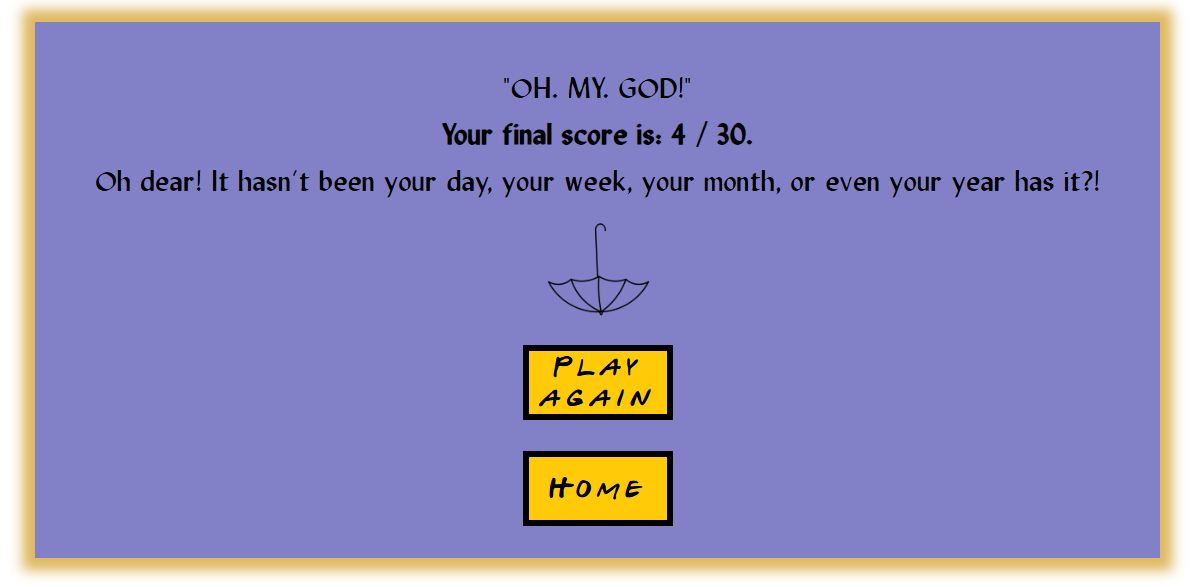
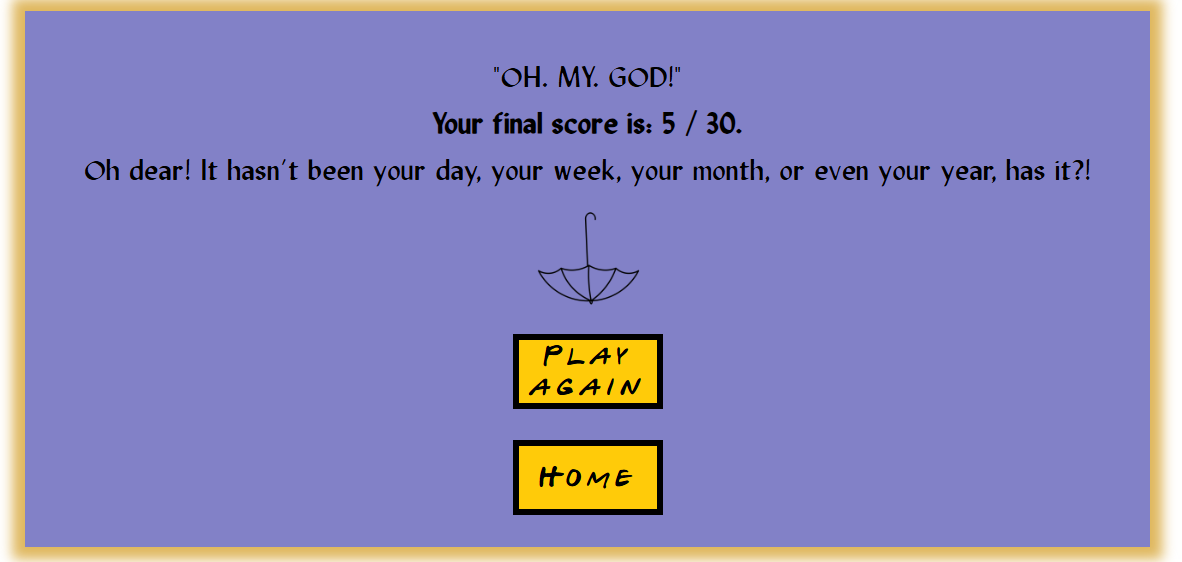
Fix minor typos in Readme and Testing files identified by proof-reading

Changed region(s): [[0.0, 0.0, 1.0, 1.0], [0.4264, 0.5747, 0.5787, 0.726], [0.4569, 0.363, 0.5482, 0.5445]]

diff --git a/assets/js/script.js b/assets/js/script.js
@@ -22,7 +22,7 @@ const questions = [
   },
 
   {
-    question: "Which friend had jobs at Central Perk, Bloomingdales and Ralph Lauren?",
+    question: "Which friend had jobs at Central Perk, Bloomingdale's and Ralph Lauren?",
     possibleAnswers: ['Monica', 'Chandler', 'Phoebe', 'Rachel'],
     correctAnswer: 'Rachel',
 
@@ -43,7 +43,7 @@ const questions = [
   },
 
   {
-    question: 'Whose name does Ross mistakenly say at the alter?',
+    question: 'Whose name does Ross mistakenly say at the altar?',
     possibleAnswers: ['Rachel', 'Emily', 'Julie', 'Mona'],
     correctAnswer: 'Rachel',
 
@@ -93,7 +93,7 @@ const questions = [
   },
 
   {
-    question: "Frank Jr  and Alice’s triplets are named Frank Jr Jr, Chandler and ...? ",
+    question: "Frank Jr and Alice’s triplets are named Frank Jr Jr, Chandler and ...? ",
     possibleAnswers: ['Lesley', 'Sophia', 'Jennifer', 'Hannah'],
     correctAnswer: 'Lesley',
 
@@ -121,7 +121,7 @@ const questions = [
   },
 
   {
-    question: "How may pages long (front and back!) was Rachel’s letter to Ross?",
+    question: "How many pages long (front and back!) was Rachel’s letter to Ross?",
     possibleAnswers: ['5', '18', '7', '12'],
     correctAnswer: '18',
   },
@@ -157,7 +157,7 @@ const questions = [
   },
 
   {
-    question: "When Phoebe becomes Princess Consuela, what does she says her friends can call her?",
+    question: "When Phoebe becomes Princess Consuela, what does she say her friends can call her?",
     possibleAnswers: ['Dorothy', 'June', 'Valerie', 'Marjorie'],
     correctAnswer: 'Valerie',
   },
@@ -330,6 +330,8 @@ document.addEventListener('DOMContentLoaded', function () {
           currentQuestionIndex++;
           if (currentQuestionIndex < questions.length) {
             handleQuestion(currentQuestionIndex);
+            answers.forEach(button => {
+            });
           } else {
             endQuiz();
           }
@@ -422,7 +424,7 @@ document.addEventListener('DOMContentLoaded', function () {
     /* Custom messages to user depending on their score */
     if (finalScore >= 0 && finalScore <= 7) {
       finalScoreElement.innerHTML = `<p>"OH. MY. GOD!"<br> <strong>Your final score is: ${finalScore} / 30.</strong> <br> Oh dear! It hasn't been your day, your week, your
-      month, or even your year has it?!</p>` +
+      month, or even your year, has it?!</p>` +
         `<img src="assets/images/umbrella.png" alt="Umbrella image" style="width:120px;">` +
         `<button onclick="location.href='trivia.html'">Play again</button>` +
         `<button onclick="location.href='index.html'">Home</button>`;
@@ -437,12 +439,12 @@ document.addEventListener('DOMContentLoaded', function () {
         `<button onclick="location.href='trivia.html'">Play again</button>` +
         `<button onclick="location.href='index.html'">Home</button>`;
     } else if (finalScore >= 24 && finalScore <= 29) {
-      finalScoreElement.innerHTML = `<p>"OH. MY. GOD!" <br> <strong>Your final score is: ${finalScore} / 30.</strong> <br> “Congratulations Ross, because Chandler, you’ve been bamboozled!” <br> "This is the best game ever!” </p>` +
+      finalScoreElement.innerHTML = `<p>"OH. MY. GOD!" <br> <strong>Your final score is: ${finalScore} / 30.</strong> <br> “Congratulations, Ross! Because Chandler, you’ve been bamboozled!” <br> "This is the best game ever!” </p>` +
         `<img src="assets/images/magna-doodle.png" alt="Magna Doodle image" style="width:120px;">` +
         `<button onclick="location.href='trivia.html'">Play again</button>` +
         `<button onclick="location.href='index.html'">Home</button>`;
     } else if (finalScore === 30) {
-      finalScoreElement.innerHTML = `<p>"OH. MY. GOD!" <br> <strong>Your final score is: ${finalScore} / 30.</strong> <br> YOU GOT EVERY ANSWER CORRECT! <br> Okay, you watch too much TV! <br> But could you BE a bigger Friends fan?!</p>` +
+      finalScoreElement.innerHTML = `<p>"OH. MY. GOD!" <br> <strong>Your final score is: ${finalScore} / 30.</strong> <br> YOU GOT EVERY ANSWER CORRECT! <br> Okay, you watch too much TV! <br> But could you <i>BE</i> a bigger Friends fan?!</p>` +
         `<img src="assets/images/central-perk.png" alt="Central Perk image" style="width:120px;">` +
         `<button onclick="location.href='trivia.html'">Play again</button>` +
         `<button onclick="location.href='index.html'">Home</button>`;

diff --git a/help.html b/help.html
@@ -59,7 +59,7 @@
         <P>Monica just can't believe that Joey thinks he and Chandler know her and Rachel better than the other way
             around.</p>
         <br>
-        <p>But how well do you know the iconic TV show 'Friends'?</p>
+        <p>But how well do <i><strong>you</strong></i> know the iconic TV show <i>'Friends'?</i></p>
         <br>
         <p>Ross has made up some questions for you (it's not like he has a job, or a child, or a life of his own!).</p>
         <br>
@@ -67,7 +67,7 @@
         <br>
         <p>Challenge accepted?</p>
         <br>
-        <p class="modal-border">Hit 'PLAY' to begin <br> or select 'HELP' <br> if you need instructions.</p>
+        <p class="modal-border">Hit 'PLAY' to begin, <br> or select 'HELP' <br> if you need instructions.</p>
         <br>
         <div class="option-btns-div">
             <a href="trivia.html">
@@ -126,18 +126,18 @@
                     are on.</li>
                 <li>Each time a new question is started, the corresponding progress bar will change from grey to yellow.
                 </li>
-                <li>You will only have 30 seconds to read each question and select the answer you think is correct – so
+                <li>You will only have 30 seconds to read each question and select your answer – so
                     be quick!</li>
                 <li>The timer underneath the progress bar will count down your remaining time. </li>
-                <li>Once you have answered the question, your selection will either turn green if you are correct, or
-                    red if you are incorrect.</li>
-                <li>If you answered incorrectly, the correct answer will be highlighted in green for you.</li>
+                <li>Once you have answered, your selection will turn green if correct, or
+                    red if incorrect.</li>
+                <li>If you're incorrect, the correct answer will be highlighted in green for you.</li>
                 <li>If you do not answer before the timer hits zero, this will be counted as an incorrect answer and the
-                    quiz will move on to the next question.</li>
+                    quiz will move to the next question.</li>
                 <li>Answer all the questions and receive your score at the end of the game.</li>
                 <li>Or follow the score count below the question box to keep track of your score as you progress through
                     the game.</li>
-                <li>Use the 'MENU' at the top of the screen at any time to access a reminder of these instructions, or
+                <li>Use the 'MENU' at the top of the screen at any time to review these instructions, or
                     to start a new game.</li>
             </ul>
             <div class="option-btns-div">

diff --git a/index.html b/index.html
@@ -59,7 +59,7 @@
         <P>Monica just can't believe that Joey thinks he and Chandler know her and Rachel better than the other way
             around.</p>
         <br>
-        <p>But how well do you know the iconic TV show 'Friends'?</p>
+        <p>But how well do <i><strong>you</strong></i> know the iconic TV show <i>'Friends'?</i></p>
         <br>
         <p>Ross has made up some questions for you (it's not like he has a job, or a child, or a life of his own!).</p>
         <br>
@@ -67,7 +67,7 @@
         <br>
         <p>Challenge accepted?</p>
         <br>
-        <p class="modal-border">Hit 'PLAY' to begin <br> or select 'HELP' <br> if you need instructions.</p>
+        <p class="modal-border">Hit 'PLAY' to begin, <br> or select 'HELP' <br> if you need instructions.</p>
         <br>
         <div class="option-btns-div">
             <a href="trivia.html">

diff --git a/trivia.html b/trivia.html
@@ -58,7 +58,7 @@
         <P>Monica just can't believe that Joey thinks he and Chandler know her and Rachel better than the other way
             around.</p>
         <br>
-        <p>But how well do you know the iconic TV show 'Friends'?</p>
+        <p>But how well do <i><strong>you</strong></i> know the iconic TV show <i>'Friends'?</i></p>
         <br>
         <p>Ross has made up some questions for you (it's not like he has a job, or a child, or a life of his own!).</p>
         <br>
@@ -66,7 +66,7 @@
         <br>
         <p>Challenge accepted?</p>
         <br>
-        <p class="modal-border">Hit 'PLAY' to begin <br> or select 'HELP' <br> if you need instructions.</p>
+        <p class="modal-border">Hit 'PLAY' to begin, <br> or select 'HELP' <br> if you need instructions.</p>
         <br>
         <div class="option-btns-div">
             <a href="trivia.html">

diff --git a/assets/css/style.css b/assets/css/style.css
@@ -691,7 +691,7 @@ footer {
 
 /*targets the social media icons so their colours will change when they are hovered over. 
     To get this to work, had to target i element not a element as originally thought*/
-i:hover {
+#social-links i:hover {
     color: var(--hover);
 
 }

diff --git a/docs/README.md b/docs/README.md
@@ -1,4 +1,4 @@
-# The one with all the questions - 'Friends' interactive trivia website
+# The One With All The Questions - 'Friends' interactive trivia website
 # Milestone Project 2 - Interactive Front End Development
 
 <h2><img src="../assets/readme-images/homepage-mockup.png" alt="Homepage mockup"></h2>
@@ -97,14 +97,14 @@
   * Facility to see my current score throughout the game (user story 7). 
 
   ### Could Have Features
-  * A message along with my final score, which is different according to what score I achieve (user story 8). 
+  * A Friends related message along with my final score, which is different according to what score I achieve (user story 8). 
   * A time limit on each question, to add a small amount of pressure, and make the game more challenging and exciting (user story 9). 
   * The questions and possible answers appear in a random order each time I play to increase replay-ability (user story 10). 
   * Ability to filter questions by difficulty level (user story 11). 
 
 
 ## User Expectations and Requirements
-* All user story 1 (must-have)
+* All user story 1 (must-have).
 * To find the website easy to access and navigate on any screen size. 
 * For the site to be fully accessible. 
 * For the site to be engaging and visually appealing, including high quality images which are related to Friends. 
@@ -136,7 +136,7 @@ I was able to successfully implement all of the initial stage features.
 * The 'active' link i.e. the page the user is on, is underlined as a visual reminder. 
 * The links on the nav bar appear as a horizontal list on larger screens and in a drop down menu on smaller screens. 
 <h2><img src="../assets/readme-images/navbar-mobile.png" alt="Nav bar on mobile and tablet"></h2>Nav bar (Mobile and Tablet)
-<h2><img src="../assets/readme-images/nav-bar-desktop.png"alt="Nav bar on desktop"></h2>Nav bar (desktop)
+<h2><img src="../assets/readme-images/nav-bar-desktop.png"alt="Nav bar on desktop"></h2>Nav bar (Desktop)
 
  
 ### Footer
@@ -214,7 +214,7 @@ I was able to successfully implement all of the initial stage features.
  * If the user does not answer the question before the timer hits zero, the user will see a pop message telling them “Time’s up!” 
 <h2><img src="../assets/readme-images/times-up-message.png" alt="Time's up message"></h2>Time's up message
 
-* The user is not shown the correct answer if they do not make an attempt to answer the question before the timer runs out. 
+* The user is not shown the correct answer if they do not make an attempt to answer the question before the timer runs out. This is done to encourage the user to engage with the game properly. 
 * The game will then auto-advance to the next question so the user will not get another chance to answer.  
 * That question will also be treated as having been answered incorrectly, and the users incorrect score tally will increment by 1 mark.  
 
@@ -267,7 +267,7 @@ Due to time constraints, I have not been able to implement the ability to filter
 Some additional features that I would like to implement in the future are: 
 
 * To increase replay-ability of the quiz, I would like to increase the pool of available questions and display only a proportion of these during each game. This would mean that the user could play the game many times over and be asked questions they have not seen before, on each playthrough. 
-* To supplement the quiz and add more value for the user, I would like implement a quote generator. This would have options to select a Friends character and view a selection of randomised quotes from them, as well as options to select an episode and receive randomised quotes from that episode.  
+* To supplement the quiz and add more value for the user, I would like to implement a quote generator. This would have options to select a Friends character and view a selection of randomised quotes from them, as well as options to select an episode and receive randomised quotes from that episode.  
 * I would also like to add an episode selector feature. The user would be able to select a category (such as birthdays, weddings, Christmas etc) and receive a list of episodes which meet this criteria. The user would also be able to select a mood from a pre-defined list (e.g. I want to cry, I want to feel motivated etc) and receive a list of recommended episodes based on that mood. 
 * I have also written all the content for a 6-question ‘which character are you most like' quiz that I would like to add to the site at a later stage.  
 
@@ -359,7 +359,7 @@ Aspect ratios chosen for use in the site were:
 * 3:2 (logo)
 * 5:4 (other images) 
 
-16:9 - this aspect ratio was chosen for hero images as these images are designed to span the whole width of the page on all screen sizes and therefore, need to be wide. 16:9 is a very versatile aspect ratio used by lots of modern media formats and provides an immersive viewing experience.
+16:9 - this aspect ratio was chosen for the hero image, as these images are designed to span the whole width of the page on all screen sizes and therefore, need to be wide. 16:9 is a very versatile aspect ratio used by lots of modern media formats and provides an immersive viewing experience.
 
 3:2 - this aspect ratio was chosen as it suits images which are in landscape orientation in their original state, because it makes the images wider than they are tall. 3:2 suits such images especially well as the result is images that are:  
 * visually pleasing;
@@ -369,7 +369,7 @@ Aspect ratios chosen for use in the site were:
 5:4 – this aspect ratio was chosen as it gives a good balance between height and width, which makes it a good match for images intended to be viewed on a screen. 
 
 ###  Image animation
-All images used on the site (except the hero image) subtly rotate in some way when hovered over, to add visual interest and interactivity. 
+All images used on the site (except the hero image) subtly grow or rotate when hovered over, to add visual interest and interactivity. 
 
 
 ## Logo
@@ -418,7 +418,7 @@ All images used on the site (except the hero image) subtly rotate in some way wh
 
   ### Images
   * [Pexels](https://www.pexels.com/) - was used to source the [Central Perk background image](https://www.pexels.com/photo/festive-central-perk-cafe-window-display-30500272/) used in the homepage of the site.
-  * [Printerval](https://printerval.com/us) was used to source:-
+  * [Printerval](https://printerval.com/us) was used to source :-
     * the image of the [peephole frame](https://printerval.com/peephole-frame-friends-sticker-sticker756055-peephole-frame-p797344) from the back of Monica Gellar's front door which was used as the site's logo.
     * the image of the [Princess Consuela name tag](https://printerval.com/friends-hello-my-name-is-princess-consuela-banana-hammock-friends-phone-case-phone-case7364869-friends-hello-my-name-is-princess-consuela-banana-p756448?__cf_chl_tk=Ma0.9LKPzAZUXU9W6IA4YQw14XXY3K4cd7w57Q2TT4k-1746235802-1.0.1.1-M...) which was used as the image on the introduction modal. 
     * Both images were found via a Google image search with results set to 'Creative Commons licenses'.
@@ -478,7 +478,7 @@ This site was deployed to GitHub pages. The steps to deploy a site are as follow
 
 # Credits
 ## Content
-* All copy, questions and answers on the site were written by me. I referred to the relevant episodes of Friends to verify all answers and information given to ensure everything is correct.
+* All copy, questions and answers on the site were written by me. I referred to the relevant episodes of Friends to verify all answers given, and all quotes and references used, to ensure everything is correct.
 * [Warner Bros](https://www.warnerbros.co.uk/tv/friends) - for the site colour scheme and the Friends quotes and references which appear throughout the site.
 * The following GitHub repositories for inspiration for creating a themed quiz using closable modals :-
      * [Diane-4P 'Harry Potter quiz'](https://github.com/Diane-4P/harry-potter-quiz?tab=readme-ov-file)  
@@ -522,7 +522,7 @@ Whilst the project in its current form is the minimum viable product, I have man
 
 Whilst this project is not perfect, overall I am proud of all the perseverance, late nights and dedication I put in to take this project from idea to reality. 
 
-By completing this MVP, I have proven to myself that I can persist at challenging tasks, even though getting to this stage has felt impossible at times.  
+By completing this MVP, I have proven to myself that I have the focus, ability and tenacity to persist at challenging tasks - even though getting to this stage has felt impossible at times.  
 
 I hope other fans of Friends will find as much joy in this project as I have.  
 

diff --git a/docs/TESTING.md b/docs/TESTING.md
@@ -123,7 +123,7 @@ The one with all the questions - 'Friends' interactive trivia website returned n
 All user expectations and requirements (user story 1: user friendly navigation and responsive design) have been satisfied.
 * The site is fully responsive on screen sizes from 320px and upwards. 
 * The site is fully accessible, it contains appropriate alt text, a colour scheme of sufficient contrast, and has passed WAVE accessibility testing. 
-* All images used in the site have been optimised and cropped to suitable aspect ratio. 
+* All images used in the site have been optimised and cropped to suitable aspect ratios. 
 * There is a responsive nav bar and footer on all pages. 
 * All navigation links have been tested and proven to work. 
 * All navigation buttons have been tested and proven to work.  
@@ -168,7 +168,7 @@ User story 7: facility to see my current score throughout the game.
 * Both the correct and incorrect score are tallied correctly (incrementing each category by one mark as appropriate) and at the correct time (as soon as the user has answered and their answered has been ‘marked’). 
 
  ### Could Have
- User story 8: a message along with my final score, which is different according to what score I achieve. 
+ User story 8: a Friends related message along with my final score, which is different according to what score I achieve. 
  * Testing of the game achieving different scores each time, has verified that a different Friends related message is displayed according to the user’s final score as expected. 
  * It has been proven that there are 5 different messages available, 1 for each of these score brackets: 0-7, 8-15, 16-23, 24-29, 30 and that the correct message appears for the relevant score bracket. 
 
@@ -190,33 +190,16 @@ User story 11: ability to filter questions by difficulty level.
 # Peer Review
 * In the final stages of the project development, I submitted the project for review by fellow Code Institute students and alumni on slack. 
 * I received feedback that the quiz was functioning well with no errors found.  
-* It was suggested that to improve the user experience, I could ass functionality for the user to exit or restart the game whilst it is in progress. Whilst these would be useful features, I decided not to implement them as I felt it was too late in the project, due to the proximity of the submission deadline. However, this is something I will remember for future projects. 
+* It was suggested that to improve the user experience, I could add functionality for the user to exit or restart the game whilst it is in progress. Whilst these would be useful features, I decided not to implement them as I felt it was too late in the project, due to the proximity of the submission deadline. However, this is something I will remember for future projects. 
 
 * The site was proof-read by me. In addition to this, I also used ChatGPT and the ‘read aloud’ feature of Microsoft Word for further proof-reading. Any minor typographical or grammatical errors found were subsequently corrected. 
 
-* I asked a number of friends and family members to test the site for typos, to check the quiz works correctly, and that the external links to social media sites in the footer all open in new tabs. No errors were reported. Feedback from a particularly avid Friends fan was that they especially liked all the details that had been added to keep the whole site in keeping with the Friends themes.
+* I asked a number of friends and family members to test the site for typos, to check the quiz works correctly, and that the external links to social media sites in the footer all open in new tabs. No errors were reported. Feedback from a particularly avid Friends fan was that they especially liked all the details that had been added to keep the whole site in keeping with the Friends theme.
        
 # Bugs 
 ## Resolved
 
-* There was originally a contrast error on the Play Page caused by the blue and yellow coloured dots in the site title, which was subsequently resolved. The issue was that the original blue and yellow colours are too light against a white background. To solve this issue, slightly darker variants of these colours were used on the Play Page instead. The Play Page subsequently passed Wave Accessibility testing with no issues. 
-        <details>
-          <summary>Original blue contrast error</summary>
-          <img src="../assets/readme-images/blue-contrast-error.png" alt="Original blue contrast error"> 
-         </details>
-        <details>
-          <summary>Original yellow contrast error</summary>
-          <img src="../assets/readme-images/yellow-contrast-error.png" alt="Original yellow contrast error"> 
-         </details>
-        <details>
-          <summary>New blue no contrast error</summary>
-          <img src="../assets/readme-images/blue-contrast.png" alt="New blue no contrast error"> 
-         </details>
-        <details>
-          <summary>New yellow no contrast error</summary>
-          <img src="../assets/readme-images/yellow-contrast.png" alt="New yellow no contrast error"> 
-         </details>
-
+* There was originally a contrast error on the Play Page caused by the blue and yellow coloured dots in the site title, which was subsequently resolved. The issue was that the original blue and yellow colours are too light against a white background. To solve this issue, slightly darker variants of these colours were used on the Play Page instead. The Play Page subsequently passed Wave Accessibility testing with no issues.
 
 * On first run of the W3C HTML Validator, the error shown below was flagged on all pages of the site. This was resolved by replacing the p element with a span element. All pages of the site subsequently passed validation. 
         <details>
@@ -229,7 +212,7 @@ User story 11: ability to filter questions by difficulty level.
 
 ## Unresolved
 
-* Lighthouse recommends rectifying the largeste contentful paint and serving images in next-gen formats to improve mobile performance on lower scoring pages. This recommendation was not acted upon at this time as current performance is still acceptable, especially for an MVP, but this could be looked into in the future, especially if the site expands with additional content.
+* Lighthouse recommends rectifying the largest contentful paint and serving images in next-gen formats to improve mobile performance on lower scoring pages. This recommendation was not acted upon at this time as current performance is still acceptable, especially for an MVP, but this could be looked into in the future, especially if the site expands with additional content.
 
 * When testing the game on Sarfari on my 9th generation iPad and on Samsung Internet on my Samsung Galaxy S22, I noticed that the text in the answer boxes appears to the left of the box rather than in the centre. This happens despite the text being set to align centrally with CSS. The text displays correctly when viewing the site on other devices and browsers. Therefore, this appears to be isolated to these particular devices and/or browsers. As this is only a minor aesthetic issue which does not affect game play, it has been left unresolved at this stage due to time constraints. 
         <details>
@@ -238,6 +221,6 @@ User story 11: ability to filter questions by difficulty level.
          </details>
 
 
-* I received some feedback in my last project that html files should be organized into a folder. I tried to implement this for this project however, having html files in folders works on the live server but not in the deployed site. There are only 4 html files in the project. This was too time-consuming to try and fix for such a small number of html files and a minor annoyance caused by the lack of folder. I would have spent the time to rectify this issue had there been a vast number of html files. Therefore html files are not placed in a folder for this project. 
+* I received some feedback in my last project that HTML files should be organized into a folder. I tried to implement this for this project however, having HTML files in folders works on the live server but not in the deployed site. Due to the small number of HTML files (4) in this project, I decided not to fix this, as in this instance, the lack of folders only creates a minor annoyance rather than a major problem. I would have spent the time to rectify this issue had there been a vast number of HTML files.
 
 Back to [README.md](./README.md)
